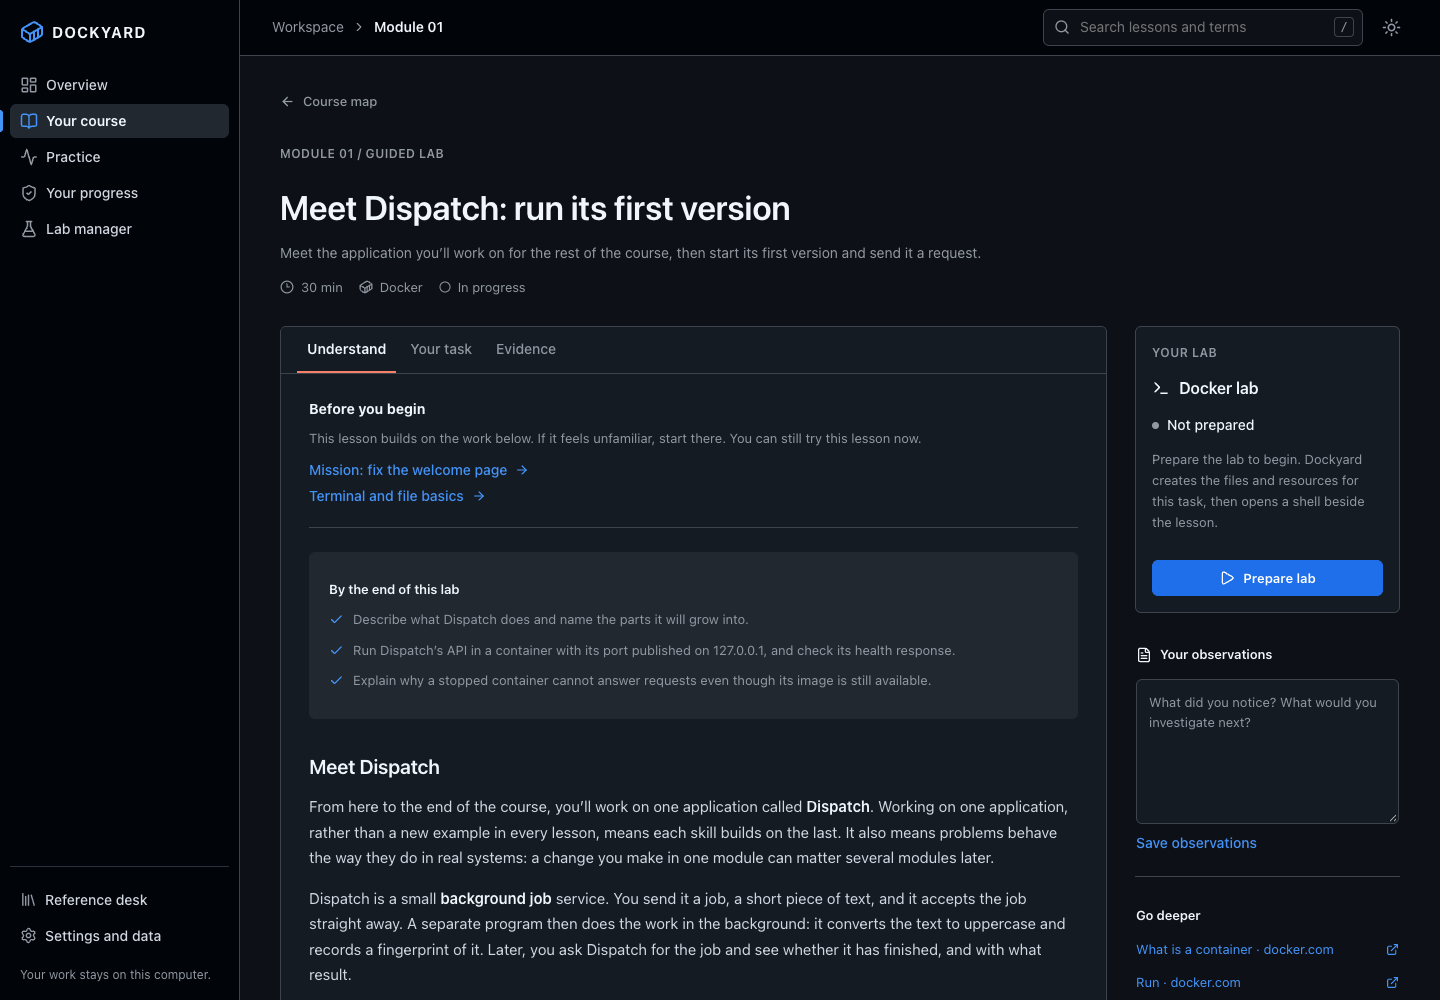
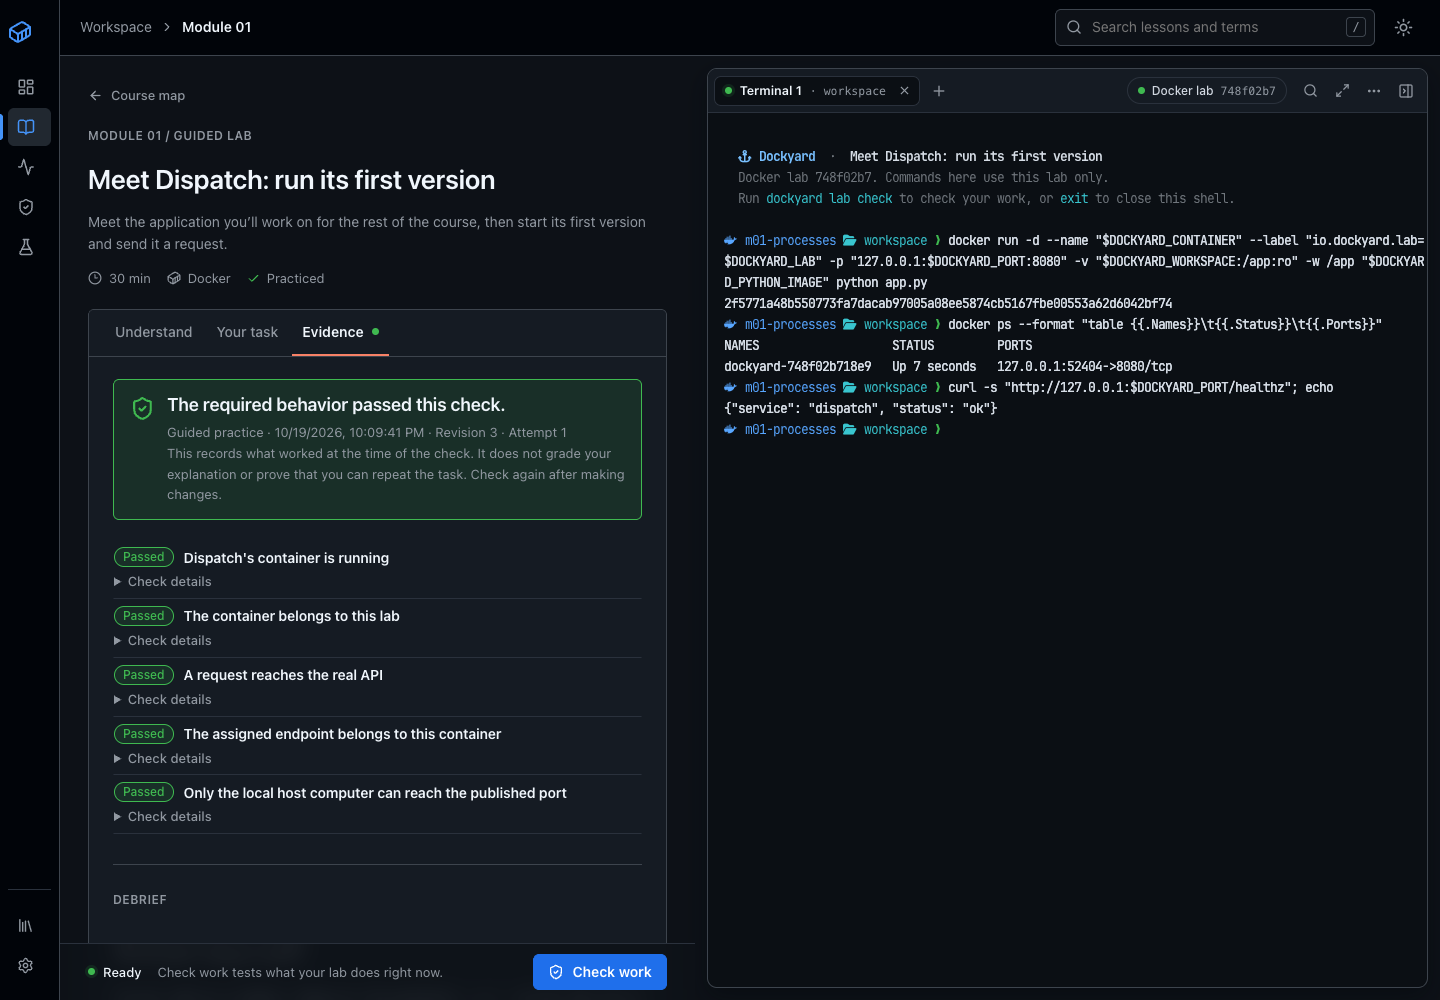
Keep the README workspace screenshot when the accessibility suite runs
The suite rewrote docs/assets/workbench.png from an unprepared lesson,
replacing the real lab-beside-terminal image. It now saves its capture
under .artifacts, and the maintenance guide says how to retake the image.

diff --git a/frontend/e2e/accessibility.spec.ts b/frontend/e2e/accessibility.spec.ts
@@ -55,7 +55,8 @@ test('all workbench destinations and lesson interactions meet automated accessib
     await scan(`${theme}/lesson`);
     if (theme === 'dark') {
       await page.evaluate(() => window.scrollTo({ top: 0, behavior: 'instant' }));
-      await page.screenshot({ path: path.join(root, 'docs/assets/workbench.png'), animations: 'disabled' });
+      // The README image needs a prepared lab beside its terminal; see docs/maintenance.md.
+      await page.screenshot({ path: path.join(root, '.artifacts/lesson-dark.png'), animations: 'disabled' });
     }
     await page.getByRole('tab', { name: 'Your task' }).click();
     await page.getByRole('button', { name: 'Reveal reference', exact: true }).click();

diff --git a/docs/maintenance.md b/docs/maintenance.md
@@ -28,6 +28,9 @@ Build browser assets with `npm --prefix frontend run build`.
 The terminal font in `frontend/src/fonts` is JetBrains Mono Nerd Font Regular and Bold from Nerd Fonts v3.5.1, converted to WOFF2 and licensed under the bundled `OFL.txt`.
 To update it, download the release's `JetBrainsMono.tar.xz`, verify its published SHA-256, and convert the two files with `fonttools ttLib.woff2 compress`.
 
+The README image `docs/assets/workbench.png` shows a real passing `m01-processes` lab beside its terminal, in the dark theme at 1440 by 1000 pixels.
+Recapture it from a disposable profile after visible workspace changes: start Dispatch in the terminal, request `/healthz`, and choose **Check work**.
+
 ## Fast verification
 
 ```sh
